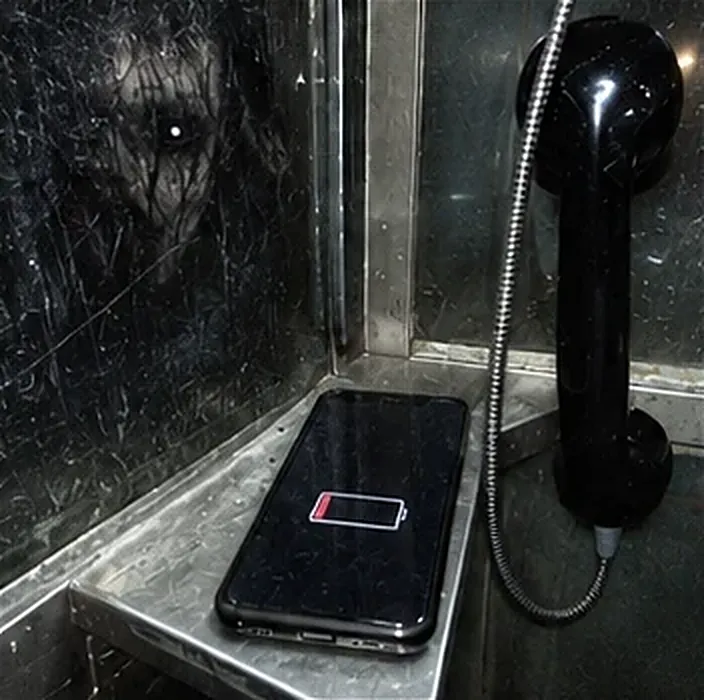
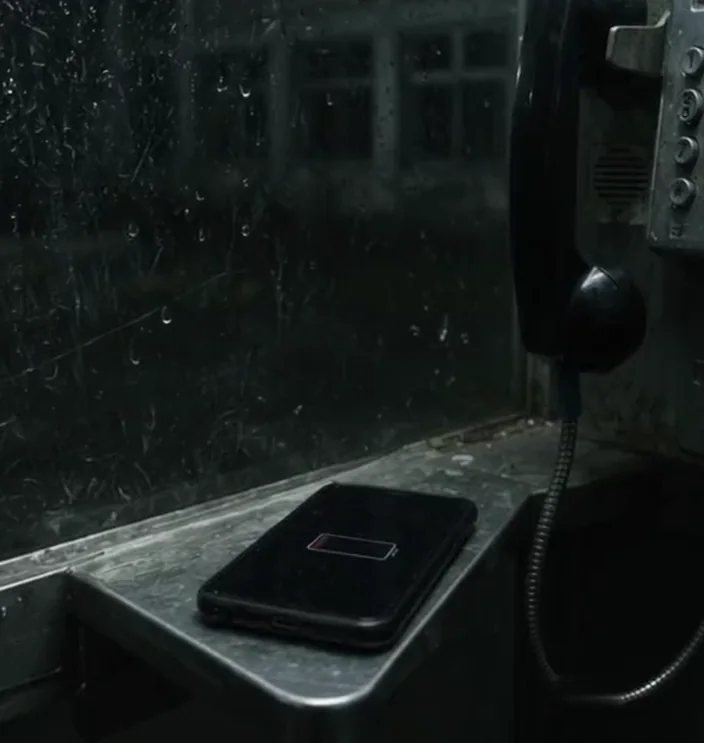
First impression without the cheap ghost
- the cold open's booth still (poster and reduced-motion fallback) is now the
  opening clip's own first frame: the dark phone on the shelf, no face in the
  glass; booth-shelf (gallery 00:58, ending 5) is a crop of the same frame
- the unknown number shows the plain default silhouette (hair a little too
  long) until chapter 4, when its profile picture changes

Claude-Session: https://claude.ai/code/session_018dEmZxJwv3RbJFTSBVPWUr

diff --git a/src/phone/ColdOpen.tsx b/src/phone/ColdOpen.tsx
@@ -148,8 +148,8 @@ export function ColdOpen() {
             muted
             playsInline
             preload="auto"
-            // season 2's own clip starts on the dark phone; season 1's still has her face in the glass
-            poster={s2 ? undefined : art('booth-shelf')}
+            // the clip's own first frame: the dark phone on the shelf, nothing in the glass yet
+            poster={s2 ? undefined : VIDEO.openingPoster}
             // the screen lights and holds — until, in season 2, the door swings in behind you (step 6)
             onTimeUpdate={(e) => e.currentTarget.currentTime > 3.6 && !(s2 && step === 6) && e.currentTarget.pause()}
             // a failing <source> also reaches here through React; only the video's own error counts
@@ -159,7 +159,7 @@ export function ColdOpen() {
             <source src={s2 ? VIDEO.s2openingWebm : VIDEO.openingWebm} type="video/webm" onError={() => setClipOk(false)} />
           </video>
         ) : (
-          art('booth-shelf') && <img className={`co-img co-booth${step >= 3 ? ' on' : ''}${step >= 4 ? ' lit' : ''}`} src={art('booth-shelf')} alt="" draggable={false} />
+          <img className={`co-img co-booth${step >= 3 ? ' on' : ''}${step >= 4 ? ' lit' : ''}`} src={VIDEO.openingPoster} alt="" draggable={false} />
         )}
         {step >= 4 && !useClip && <span className="co-glow" />}
       </div>

diff --git a/src/phone/Avatar.tsx b/src/phone/Avatar.tsx
@@ -2,6 +2,7 @@ import type { ThreadId } from '../engine/types';
 import { AppGlyph, APP_META } from './icons';
 import { art, type ArtSlot } from '../art/photoArt';
 import { isS2 } from '../content/season';
+import { useGame } from '../hooks/useGame';
 
 /** Season 2's faces: 엄마 is 서미령 (her ID photo), the 'dohyun' slot is 채원, 나에게 is 소연's plain initial. */
 const S2_PHOTO: Record<ThreadId, ArtSlot | null> = { mom: 'miryeong-id', dohyun: 'avatar-self', unknown: 'avatar-unknown', self: 'avatar-soyeon' };
@@ -12,8 +13,11 @@ const S2_PHOTO: Record<ThreadId, ArtSlot | null> = { mom: 'miryeong-id', dohyun:
 // except the hair is too long.
 
 function Portrait({ th }: { th: ThreadId }) {
+  // The number with no name starts as the plain default silhouette (with hair a little too
+  // long). Only in chapter 4 does it have a picture — a profile photo that changed overnight.
+  const late = useGame((s) => s.save.chapter >= 4);
   // A real profile photo, if one was provided (src/assets/art/avatar-<thread>).
-  const slot = isS2() ? S2_PHOTO[th] : (`avatar-${th}` as const);
+  const slot = th === 'unknown' && !late ? null : isS2() ? S2_PHOTO[th] : (`avatar-${th}` as const);
   const photo = slot ? art(slot) : undefined;
   if (photo) return <img src={photo} alt="" draggable={false} />;
   if (isS2() && th === 'self')

diff --git a/src/art/videos.ts b/src/art/videos.ts
@@ -13,6 +13,7 @@ import boothWebm from '../assets/video/booth.webm';
 import boothPoster from '../assets/video/booth-poster.jpg';
 import opening from '../assets/video/opening.mp4';
 import openingWebm from '../assets/video/opening.webm';
+import openingPoster from '../assets/video/opening-poster.jpg';
 import dawn from '../assets/video/dawn.mp4';
 import dawnWebm from '../assets/video/dawn.webm';
 import dawnPoster from '../assets/video/dawn-poster.jpg';
@@ -38,6 +39,7 @@ export const VIDEO = {
   boothPoster,
   opening,
   openingWebm,
+  openingPoster,
   dawn,
   dawnWebm,
   dawnPoster,

diff --git a/ART_PROMPTS.md b/ART_PROMPTS.md
@@ -25,7 +25,7 @@ slightly green color cast, amateur framing, realistic photograph, no text, no wa
 | `selfie-alone` | 3:4 세로 | 숨김 앨범 5번째, 스케어 전: 채원만 (selfie-far를 잘라 만듦 — 생성 불필요) |
 | `booth` | 3:2 가로 | 3장 자동 백업: 3층 창문에서 내려다본 공중전화 부스 안의 "당신" |
 | `booth-behind` | 3:2 가로 | 4장 도현이 보낸 사진: 길 건너에서 찍은 부스, 당신 뒤에 누가 서 있음 |
-| `booth-shelf` | 3:2 가로 | 1장 사진 앱 첫 사진(00:58): 부스 선반 위에 놓인 화면 켜진 폰 |
+| `booth-shelf` | 3:2 가로 | 1장 사진 앱 첫 사진(00:58): 부스 선반 위에 놓인 폰. **지금은 첫 화면 영상(`opening`)의 첫 장면을 잘라 씀** — 유리에 비친 귀신 얼굴이 첫인상부터 드러나 싸 보여서 뺐습니다 |
 | `video-chaewon` | 9:16 세로 | 02:00 영상통화: 채원 얼굴 |
 | `video-behind` | 9:16 세로 | 02:00 영상통화: 같은 화면, 채원 어깨 뒤에 그것 (서서히 겹쳐짐) |
 | `scare-hang` | 9:16 세로 | 점프스케어 1 (검은 사진) |
